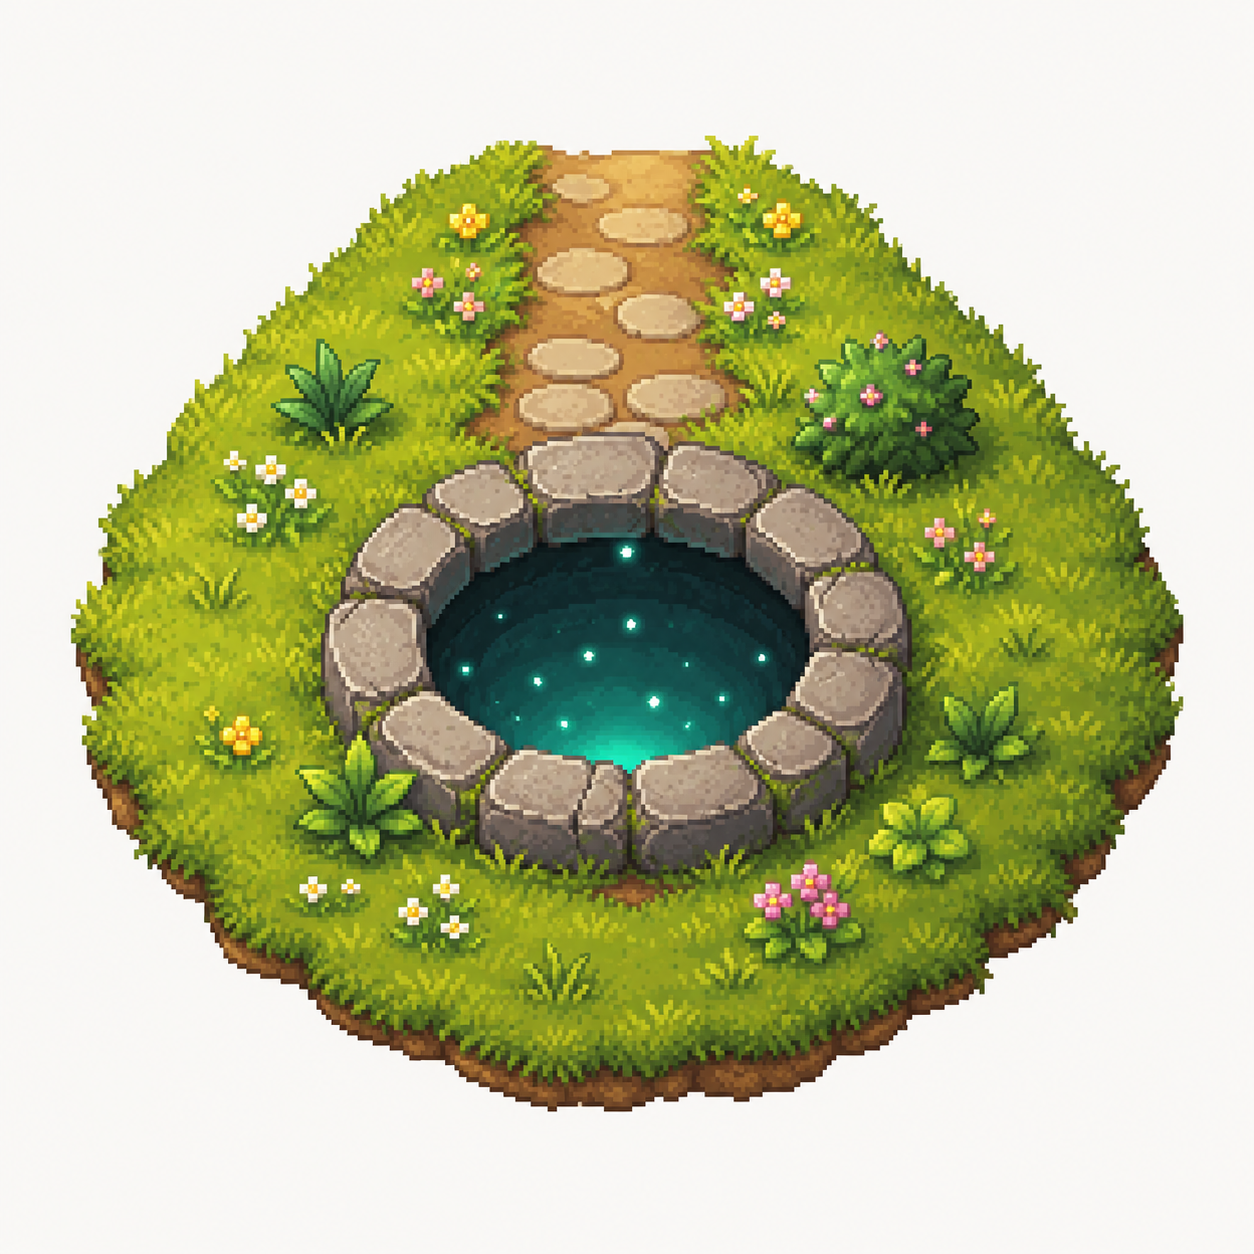
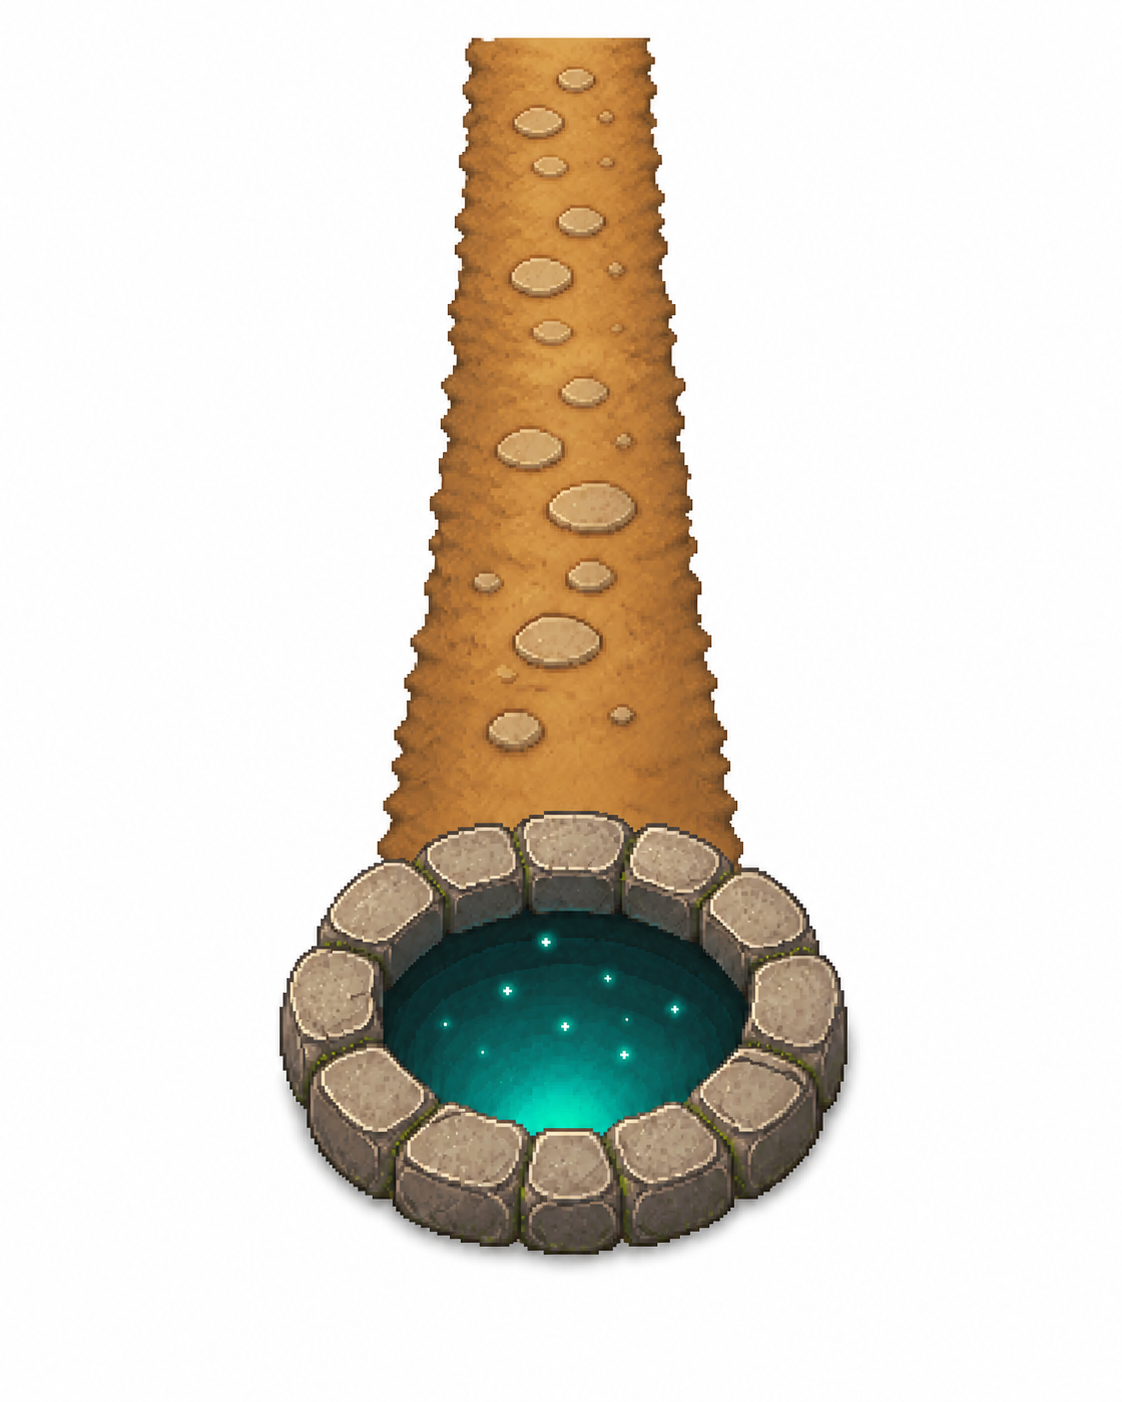
Phase-aware house lighting + shadows, and the new well/path pit art
Lighting: the house was drawn in daylight and stayed bright against the
dusk/storm/shadow skies. PHASE_HOUSE_TINT now washes it into each sky's
ambient light:
- roof / foundation / pit get a same-source tintColor overlay Image (follows
  each art silhouette exactly via alpha).
- the wall + stone frame get two body scrims (a compensated one behind the
  rooms + a lighter one over them) so the shell tints to full exterior
  strength while the rooms tint at ~half — lit interiors keep glowing like
  windows at night.
- the pit tint is capped at 0.4 so the well's teal glow survives the dark
  phases.
Values: day untouched, afternoon faint gold, dusk warm rose, storm deep
blue, shadow near-black, phase-5 softer mauve.

Shadows: the contact shadow under the foundation is now phase-aware
(CONTACT_SHADOW) — color follows the ground it falls on (meadow green ->
sunset earth -> night blues) and softens as the direct sun leaves.

New pit art: swapped to the user's stone-well + stone-path generation. The
processor drops the top 45% of its tapered path tail; live asset is 460x540
(vs the old 480x421 mound). Its taller 137dp flow pushes the foundation
higher up the art, so the sky-box floor is raised 790 -> 940 to keep the
foundation below the river on every device (skyGeometry seat math + test
updated, all profiles clear by ~30px). New phase-lighting tripwires added.

Validated across all five skies with offline composites before wiring.
versionCode 19.
[…]

diff --git a/mobile/src/components/home/HouseWorld.tsx b/mobile/src/components/home/HouseWorld.tsx
@@ -434,6 +434,35 @@ const PHASE_GROUND_COLORS: Record<number, string> = {
   5: '#182131', // Phase 5 renders sky_shadow too
 };
 
+// Per-phase house lighting. The house art is drawn in daylight; these tints
+// sit it into each sky's ambient light (values tuned against offline
+// composites of the real assets over all five skies). `ext` is the exterior
+// strength (roof / walls / foundation / pit); `room` is deliberately about
+// half of it so the lit interiors keep glowing against the darkened shell,
+// like windows at night. Non-rectangular pieces (roof, pit) are tinted with
+// a same-source overlay Image + tintColor, which follows the art's alpha
+// silhouette exactly.
+const PHASE_HOUSE_TINT: Record<number, { color: string; ext: number; room: number }> = {
+  0: { color: '#000000', ext: 0, room: 0 },      // day: untouched
+  1: { color: '#FFBE6E', ext: 0.06, room: 0.03 }, // afternoon: faint warm gold
+  2: { color: '#D66E46', ext: 0.14, room: 0.07 }, // dusk: warm sunset rose
+  3: { color: '#0E1A36', ext: 0.45, room: 0.22 }, // storm night: deep blue
+  4: { color: '#080818', ext: 0.55, room: 0.27 }, // shadow: near-black indigo
+  5: { color: '#140E28', ext: 0.48, room: 0.24 }, // terrible peace: softer mauve dark
+};
+
+// Contact-shadow appearance by phase: color follows the ground it falls on
+// (green meadow -> sunset earth -> night blues) and the strength softens as
+// the direct sunlight goes away.
+const CONTACT_SHADOW: Record<number, { color: string; mult: number }> = {
+  0: { color: '#0A1408', mult: 1 },
+  1: { color: '#1A1206', mult: 1 },
+  2: { color: '#170B04', mult: 0.85 },
+  3: { color: '#030812', mult: 0.6 },
+  4: { color: '#020409', mult: 0.5 },
+  5: { color: '#020409', mult: 0.5 },
+};
+
 // ═══════════════════════════════════════════════════════════════════════════
 // ARRANGEMENT CONNECTOR - Visual sigil lines connecting rooms
 // ═══════════════════════════════════════════════════════════════════════════
@@ -728,13 +757,14 @@ const HOUSE_WIDTH = ROOM_WIDTH + (HOUSE_PADDING * 2);
 const ROOF_WIDTH = HOUSE_WIDTH + 30; // Rendered roof width (slight overhang)
 const ROOF_RENDER_HEIGHT = Math.round(ROOF_WIDTH * (283 / 792)); // roof.png 792x283
 const FOUNDATION_RENDER_HEIGHT = Math.round(HOUSE_WIDTH * (118 / 792)); // foundation.png 792x118
-// pit_entrance.png is 480x421; rendered box + the tuck under the foundation.
-const PIT_RENDER_WIDTH = 116;
-const PIT_RENDER_HEIGHT = Math.round(PIT_RENDER_WIDTH * (421 / 480)); // 102
-const PIT_MARGIN_TOP = -6; // path start tucks under the foundation edge
+// pit_entrance.png is 460x540 (stone well + a stone path leading up to it).
+// Rendered box + the tuck under the foundation edge.
+const PIT_RENDER_WIDTH = 130;
+const PIT_RENDER_HEIGHT = Math.round(PIT_RENDER_WIDTH * (540 / 460)); // 153
+const PIT_MARGIN_TOP = -16; // path tail tucks behind the foundation edge
 // Net flow height the pit adds below the foundation — used by the pan bounds,
 // the contact shadow seat, and the house-vs-art geometry notes below.
-const PIT_FLOW_HEIGHT = PIT_RENDER_HEIGHT + PIT_MARGIN_TOP; // 96
+const PIT_FLOW_HEIGHT = PIT_RENDER_HEIGHT + PIT_MARGIN_TOP; // 137
 const SHADOW_FIGURE_ASPECT = 600 / 1200; // width / height
 
 // Baseline gap between the pit entrance and the container bottom (before the
@@ -764,19 +794,20 @@ const PIT_DOCK_CLEARANCE = 80;
 //      container bottom, where scale = SKY_BOX_HEIGHT / 1972 — independent of
 //      the container height, header height, or insets.
 // The house column is bottom-anchored too (margins below), so the foundation
-// top sits at (HOUSE_BOTTOM_MARGIN + PIT_DOCK_CLEARANCE + PIT_FLOW_HEIGHT 96
-// + foundation 42) = 248dp ≈ image rows 1353-1440 across real devices — on
-// the meadow, just below the river, in every sky variant.
+// top sits at (HOUSE_BOTTOM_MARGIN + PIT_DOCK_CLEARANCE + PIT_FLOW_HEIGHT 137
+// + foundation 42) = 289dp above the container bottom.
 const SKY_IMG_WIDTH = 941;
 const SKY_IMG_HEIGHT = 1972;
-// The 790 floor guarantees the seat even on very small / display-size-scaled
-// windows (e.g. 320x640dp): scale >= 790/1972 puts the foundation top at
-// image row <= ~1353, still below every river. Larger boxes only push the
-// house further down the meadow, never back into the water.
+// The 940 floor guarantees the seat even on very small / display-size-scaled
+// windows (e.g. 320x640dp): scale >= 940/1972 keeps the foundation top at
+// image row >= ~1366, below every river (lowest bank ~row 1335). The taller
+// pit (137dp flow) pushes the foundation higher up the art than the old one
+// did, so this floor is what keeps it out of the water — larger boxes only
+// push the house further down the meadow, never back up into the river.
 const SKY_BOX_HEIGHT = Math.max(
   SCREEN_HEIGHT,
   Math.ceil(SCREEN_WIDTH * (SKY_IMG_HEIGHT / SKY_IMG_WIDTH)) + 2,
-  790,
+  940,
 );
 
 
@@ -821,9 +852,16 @@ export const HouseWorld: React.FC<HouseWorldProps> = ({
 }) => {
   const tendingIntensity = getTendingIntensity(tendingLevel);
   const ambientMotionEnabled = !getSettingsSync().reducedMotion && !shouldSimplifyAnimations();
-  // Contact-shadow strength by phase: crisp under the day sun, softer as the
-  // skies darken (a hard shadow under a storm sky reads wrong).
-  const contactShadowMult = [1, 1, 0.85, 0.6, 0.5, 0.5][currentPhase] ?? 1;
+  const houseTint = PHASE_HOUSE_TINT[currentPhase] ?? PHASE_HOUSE_TINT[0];
+  // Wall texture sits UNDER the whole-body room scrim, so its own overlay is
+  // compensated to land the compound wall tint exactly on `ext`.
+  const wallTintOpacity = houseTint.room >= 1
+    ? houseTint.ext
+    : Math.max(0, (houseTint.ext - houseTint.room) / (1 - houseTint.room));
+  // The pit shares the exterior tint, but capped so the well's teal glow
+  // survives the night phases instead of washing to flat black.
+  const pitTintOpacity = Math.min(houseTint.ext, 0.4);
+  const contactShadow = CONTACT_SHADOW[currentPhase] ?? CONTACT_SHADOW[0];
   // Animated values
   const translateY = useRef(new Animated.Value(0)).current;
 
@@ -1095,15 +1133,24 @@ export const HouseWorld: React.FC<HouseWorldProps> = ({
                     { bottom: (onPitPress ? PIT_FLOW_HEIGHT : 0) - 14 },
                   ]}
                 >
-                  <View style={[styles.contactShadowPill, styles.contactShadowOuter, { opacity: 0.1 * contactShadowMult }]} />
-                  <View style={[styles.contactShadowPill, styles.contactShadowMid, { opacity: 0.1 * contactShadowMult }]} />
-                  <View style={[styles.contactShadowPill, styles.contactShadowInner, { opacity: 0.12 * contactShadowMult }]} />
+                  <View style={[styles.contactShadowPill, styles.contactShadowOuter, { backgroundColor: contactShadow.color, opacity: 0.1 * contactShadow.mult }]} />
+                  <View style={[styles.contactShadowPill, styles.contactShadowMid, { backgroundColor: contactShadow.color, opacity: 0.1 * contactShadow.mult }]} />
+                  <View style={[styles.contactShadowPill, styles.contactShadowInner, { backgroundColor: contactShadow.color, opacity: 0.12 * contactShadow.mult }]} />
                 </View>
 
 
                 {/* Roof — pixel art (chimney + attic window baked into the asset) */}
                 <View style={styles.roof}>
                   <Image source={ROOF_IMG} style={styles.roofImage} resizeMode="stretch" />
+                  {/* Phase lighting: a same-source tinted copy follows the roof
+                      silhouette exactly (tintColor respects alpha). */}
+                  {houseTint.ext > 0 && (
+                    <Image
+                      source={ROOF_IMG}
+                      style={[styles.roofImage, styles.tintFill, { tintColor: houseTint.color, opacity: houseTint.ext }]}
+                      resizeMode="stretch"
+                    />
+                  )}
                   {/* Animated smoke puffs rising from the baked-in chimney */}
                   <View style={styles.smokeContainer}>
                     <SmokePuff delay={0} isStatic={!ambientMotionEnabled} />
@@ -1122,6 +1169,17 @@ export const HouseWorld: React.FC<HouseWorldProps> = ({
                     resizeMode="repeat"
                     fadeDuration={0}
                   />
+                  {/* Wall/frame phase scrim (behind the rooms). Compensated so
+                      the wall's compound tint (this + the room scrim over it)
+                      lands on the full exterior strength, while the rooms above
+                      keep only the lighter room scrim — lit interiors still glow
+                      against the darkened shell. */}
+                  {wallTintOpacity > 0 && (
+                    <View
+                      pointerEvents="none"
+                      style={[styles.bodyScrim, { backgroundColor: houseTint.color, opacity: wallTintOpacity }]}
+                    />
+                  )}
                   <View style={styles.topTrim} />
 
                   {/* Render rooms from top to bottom (highest row number first) */}
@@ -1171,10 +1229,29 @@ export const HouseWorld: React.FC<HouseWorldProps> = ({
                       <Text style={styles.emptyHouseSubtext}>Your house awaits!</Text>
                     </View>
                   )}
+
+                  {/* Room phase scrim (over the rooms + frame). Lighter than the
+                      exterior so the interiors read as lit at night; inset past
+                      the frame border so the stone trim tints too. */}
+                  {houseTint.room > 0 && (
+                    <View
+                      pointerEvents="none"
+                      style={[styles.bodyRoomScrim, { backgroundColor: houseTint.color, opacity: houseTint.room }]}
+                    />
+                  )}
                 </View>
 
                 {/* Foundation — pixel stone courses */}
-                <Image source={FOUNDATION_IMG} style={styles.foundationImage} resizeMode="stretch" />
+                <View style={styles.foundationWrap}>
+                  <Image source={FOUNDATION_IMG} style={styles.foundationImageInner} resizeMode="stretch" />
+                  {houseTint.ext > 0 && (
+                    <Image
+                      source={FOUNDATION_IMG}
+                      style={[styles.foundationImageInner, styles.tintFill, { tintColor: houseTint.color, opacity: houseTint.ext }]}
+                      resizeMode="stretch"
+                    />
+                  )}
+                </View>
 
                 {/* The Offering Pit's mouth in the front yard, a stone path
                     connecting it to the house */}
@@ -1196,6 +1273,13 @@ export const HouseWorld: React.FC<HouseWorldProps> = ({
                       style={styles.pitEntranceImage}
                       resizeMode="contain"
                     />
+                    {houseTint.ext > 0 && (
+                      <Image
+                        source={PIT_ENTRANCE_IMG}
+                        style={[styles.pitEntranceImage, styles.tintFill, { tintColor: houseTint.color, opacity: pitTintOpacity }]}
+                        resizeMode="contain"
+                      />
+                    )}
                   </TouchableOpacity>
                 )}
               </View>
@@ -1304,16 +1388,29 @@ const styles = StyleSheet.create({
     width: '100%',
     height: '100%',
   },
-  foundationImage: {
+  // Absolute-fill for a same-source tinted overlay (phase lighting). Follows
+  // the base image's box; tintColor makes it follow the alpha silhouette.
+  tintFill: {
+    position: 'absolute',
+    top: 0,
+    left: 0,
+    right: 0,
+    bottom: 0,
+  },
+  foundationWrap: {
     width: HOUSE_WIDTH,
     height: FOUNDATION_RENDER_HEIGHT,
     marginTop: -2,
+  },
+  foundationImageInner: {
+    width: '100%',
+    height: '100%',
   },
   pitEntrance: {
     alignSelf: 'center',
     marginTop: PIT_MARGIN_TOP, // path tucks under the foundation edge
     width: PIT_RENDER_WIDTH,
-    height: PIT_RENDER_HEIGHT, // pit_entrance.png aspect (480x421)
+    height: PIT_RENDER_HEIGHT, // pit_entrance.png aspect
   },
   pitEntranceImage: {
     width: '100%',
@@ -1361,14 +1458,33 @@ const styles = StyleSheet.create({
     borderTopWidth: 0,
     alignItems: 'center',
   },
-  // Seamless 48x48 timber tile (assets/environment/wall.png, generated by
-  // generatePixelWorld.mjs) repeated across the wall area behind the rooms.
+  // Seamless timber tile (assets/environment/wall.png) repeated across the
+  // wall area behind the rooms.
   wallTexture: {
     position: 'absolute',
     top: 0,
     left: 0,
     right: 0,
     bottom: 0,
+  },
+  // Phase scrim over the wall+trim, behind the rooms. Inset past the 5px
+  // frame border (like the room scrim) so the stone frame tints to the same
+  // exterior strength as the wall instead of reading lighter at night.
+  bodyScrim: {
+    position: 'absolute',
+    top: 0,
+    left: -5,
+    right: -5,
+    bottom: -5,
+  },
+  // Phase scrim over the rooms + frame border. Inset past the 5px border so
+  // the stone trim tints with the wall instead of standing out lighter.
+  bodyRoomScrim: {
+    position: 'absolute',
+    top: 0,
+    left: -5,
+    right: -5,
+    bottom: -5,
   },
   // Contact shadow under the foundation. Wrap is bottom-positioned inline
   // (the pit entrance adds 95dp of flow height below the foundation when it

diff --git a/mobile/src/__tests__/skyGeometry.test.ts b/mobile/src/__tests__/skyGeometry.test.ts
@@ -57,7 +57,7 @@ describe('HouseWorld sky anchoring', () => {
     // The box height must beat width-driven scaling so the art's full height
     // maps onto the box and its bottom row lands on the container bottom.
     expect(HOUSE_WORLD).toMatch(
-      /const SKY_BOX_HEIGHT = Math\.max\(\s*SCREEN_HEIGHT,\s*Math\.ceil\(SCREEN_WIDTH \* \(SKY_IMG_HEIGHT \/ SKY_IMG_WIDTH\)\) \+ 2,\s*790,?\s*\);/
+      /const SKY_BOX_HEIGHT = Math\.max\(\s*SCREEN_HEIGHT,\s*Math\.ceil\(SCREEN_WIDTH \* \(SKY_IMG_HEIGHT \/ SKY_IMG_WIDTH\)\) \+ 2,\s*940,?\s*\);/
     );
     const skyStyle = HOUSE_WORLD.slice(
       HOUSE_WORLD.indexOf('skyBackground: {'),
@@ -78,6 +78,38 @@ describe('HouseWorld sky anchoring', () => {
   });
 });
 
+describe('phase lighting settles the house into each sky', () => {
+  test('per-phase tint + contact-shadow maps exist for all six phases', () => {
+    const tint = HOUSE_WORLD.slice(
+      HOUSE_WORLD.indexOf('PHASE_HOUSE_TINT'),
+      HOUSE_WORLD.indexOf('CONTACT_SHADOW')
+    );
+    const shadow = HOUSE_WORLD.slice(
+      HOUSE_WORLD.indexOf('const CONTACT_SHADOW'),
+      HOUSE_WORLD.indexOf('};', HOUSE_WORLD.indexOf('const CONTACT_SHADOW'))
+    );
+    for (let p = 0; p <= 5; p++) {
+      expect(tint).toMatch(new RegExp(`\\n  ${p}: \\{`));
+      expect(shadow).toMatch(new RegExp(`\\n  ${p}: \\{`));
+    }
+    // Phase 0 (day) must stay untouched.
+    expect(tint).toMatch(/0: \{ color: '#000000', ext: 0, room: 0 \}/);
+  });
+
+  test('roof / foundation / pit carry a same-source tintColor overlay', () => {
+    // tintColor on a same-source Image follows the art alpha exactly; there
+    // must be one guarded overlay per silhouette piece.
+    const overlays = HOUSE_WORLD.match(/styles\.tintFill, \{ tintColor: houseTint\.color/g) || [];
+    expect(overlays.length).toBeGreaterThanOrEqual(3);
+  });
+
+  test('the two body scrims tint wall/frame fully but rooms at ~half', () => {
+    expect(HOUSE_WORLD).toMatch(/const wallTintOpacity =/);
+    expect(HOUSE_WORLD).toMatch(/styles\.bodyScrim, \{ backgroundColor: houseTint\.color, opacity: wallTintOpacity \}/);
+    expect(HOUSE_WORLD).toMatch(/styles\.bodyRoomScrim, \{ backgroundColor: houseTint\.color, opacity: houseTint\.room \}/);
+  });
+});
+
 describe('foundation seats below the river on real devices', () => {
   // Replicates HouseWorld's bottom-anchored seat math. If any constant in
   // HouseWorld changes (margins, pit size, foundation height, sky dims),
@@ -88,11 +120,11 @@ describe('foundation seats below the river on real devices', () => {
   const RIVER_BOTTOM_ROW = 1335; // lowest river/bank pixel across all 5 skies
   const HOUSE_BOTTOM_MARGIN = 30;
   const PIT_DOCK_CLEARANCE = 80;
-  const PIT_BLOCK = 96; // pit height 102 + marginTop -6 (PIT_FLOW_HEIGHT)
+  const PIT_BLOCK = 137; // pit height 153 + marginTop -16 (PIT_FLOW_HEIGHT)
   const FOUNDATION_H = 42; // 282 * (118/792)
 
   const foundationTopArtRow = (sw: number, sh: number) => {
-    const boxH = Math.max(sh, Math.ceil(sw * (IMG_H / IMG_W)) + 2, 790);
+    const boxH = Math.max(sh, Math.ceil(sw * (IMG_H / IMG_W)) + 2, 940);
     const scale = boxH / IMG_H;
     const foundationTopDp =
       HOUSE_BOTTOM_MARGIN + PIT_DOCK_CLEARANCE + PIT_BLOCK + FOUNDATION_H; // above container bottom

diff --git a/CLAUDE.md b/CLAUDE.md
@@ -546,7 +546,7 @@ Client-side sync layer with a pluggable `CloudProvider` interface. A live Supaba
 - **All 10 character sprites** wired up: idle.png, talk.png, robed.png per animal. **Intentional design — not a defect:** `axolotl/talk.png` is byte-identical to `axolotl/idle.png` *on purpose* — Axel (the axolotl) wears a scuba mask, so he can't visibly talk; his mouth never moves, hence no distinct talk frame. Do NOT "fix" this by generating a separate talk sprite. The reduced-motion-safe talk transform on the dialogue portrait (HomeScreen `dialogueSpriteTalking`) still gives Axel subtle motion while speaking, consistent with every other animal.
 - **All 10 room backgrounds** wired up in RoomView.tsx
 - **Environment**: sky_day/afternoon/dusk/storm/shadow.png (phase-aware: 0=day, 1=afternoon, 2=dusk, 3=storm, 4+=shadow — see `HouseWorld.tsx`), pitt_day/dusk/night.png (pit backgrounds). Oversized backgrounds were downscaled for mobile via `scripts/tools/downscaleImages.mjs`; skies are 941×1972 (bottom 300 rows = mirrored meadow extension for the house-below-the-river seat — see Home Background Colors)
-- **World art (wired into HouseWorld)**: `roof.png` (792×283, chimney + attic window baked in; smoke puffs animate above the chimney at ~25% from the left), `foundation.png` (792×118, stone courses + timber sill), `wall.png` (seamless 128×128 timber tile repeated behind the rooms — replaced the flat wall color that read as a sticker), and the tappable `pit_entrance.png` (480×421, grassy mound + stone-rimmed glowing mouth + path that tucks under the foundation via `PIT_MARGIN_TOP`) are **AI-generated detailed pixel art matching the room interiors** — sources live in `assets/raw/` and are processed (background key → crop → downscale) by `scripts/tools/processRawWorldArt.mjs`; their aspect constants live in HouseWorld.tsx and the seat math in `skyGeometry.test.ts` (update both if raws change). A static 3-pill contact shadow under the foundation seats the house on the meadow (phase-softened). `cloud_1/2.png` remain procedural (`scripts/tools/generatePixelWorld.mjs`, now clouds/tree/ground only). `ground.png`/`tree.png` exist but are intentionally NOT rendered: the sky backgrounds are full landscapes with their own grass and trees. The soft `shadow_figure.png` (the entity) is deliberately NOT pixel art — it should read as otherworldly against the pixel world (`generateWorldArt.mjs`)
+- **World art (wired into HouseWorld)**: `roof.png` (792×283, chimney + attic window baked in; smoke puffs animate above the chimney at ~25% from the left), `foundation.png` (792×118, stone courses + timber sill), `wall.png` (seamless 128×128 timber tile repeated behind the rooms — replaced the flat wall color that read as a sticker), and the tappable `pit_entrance.png` (460×540, stone-rimmed glowing well + a stone path that leads up under the foundation via `PIT_MARGIN_TOP`) are **AI-generated detailed pixel art matching the room interiors** — sources live in `assets/raw/` and are processed (background key → crop → downscale; the pit also drops the top 45% of its tapered path tail) by `scripts/tools/processRawWorldArt.mjs`; their aspect constants live in HouseWorld.tsx and the seat math in `skyGeometry.test.ts` (update both if raws change). **Phase lighting**: `PHASE_HOUSE_TINT` washes the house into each sky's ambient light — a same-source `tintColor` overlay Image follows the roof/foundation/pit silhouettes, and two body scrims tint the wall/frame at full exterior strength while tinting the rooms at ~half (so lit interiors keep glowing against the darkened shell); the pit's tint is capped so the well's teal glow survives the night phases. A static 3-pill contact shadow under the foundation seats the house on the meadow, with `CONTACT_SHADOW` shifting its color/strength per phase (green meadow → sunset earth → night blues, softening as the sun leaves). `cloud_1/2.png` remain procedural (`scripts/tools/generatePixelWorld.mjs`, now clouds/tree/ground only). `ground.png`/`tree.png` exist but are intentionally NOT rendered: the sky backgrounds are full landscapes with their own grass and trees. The soft `shadow_figure.png` (the entity) is deliberately NOT pixel art — it should read as otherworldly against the pixel world (`generateWorldArt.mjs`)
 - **UI sprites**: `assets/ui/` star_filled/star_empty/amber/flame/journal/pit.png + hint/undo/restart.png replace the ⭐ 💎 🔥 📚 ⭕ emoji in VictoryModal, the home header, stats, and unlock prompts (`scripts/tools/generateUiIcons.mjs`); `ActionButton` maps its 💡/↩/🔄 glyphs to the generated sprites. `<AmberInline />` embeds the amber gem inside Text runs. Icon art is tuned bright/high-contrast for the translucent dark header pills. Remaining emoji (🏆 📋 ✨) are intentional accents with accessibility labels
 - **Store kit**: `docs/feature-graphic.png` (1024×500) + `docs/STORE_LISTING.md` (descriptions, keywords, age rating, screenshot shot list)
 
